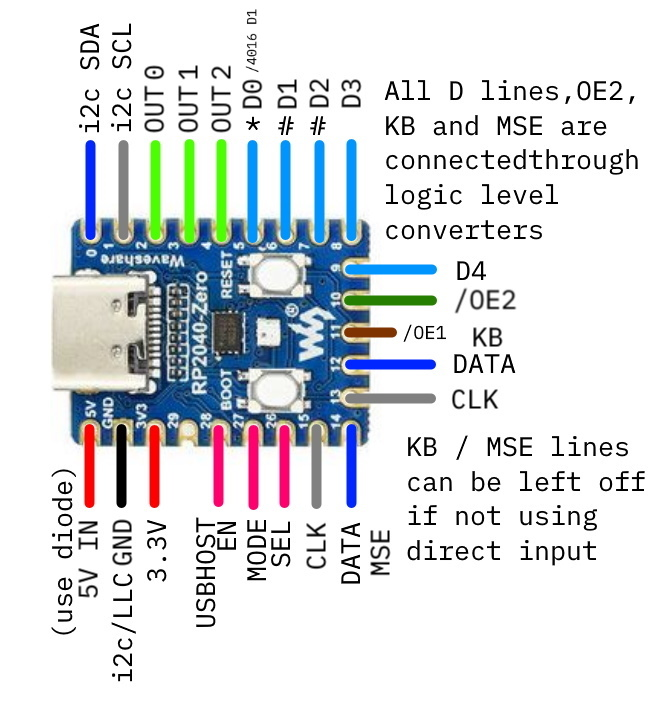
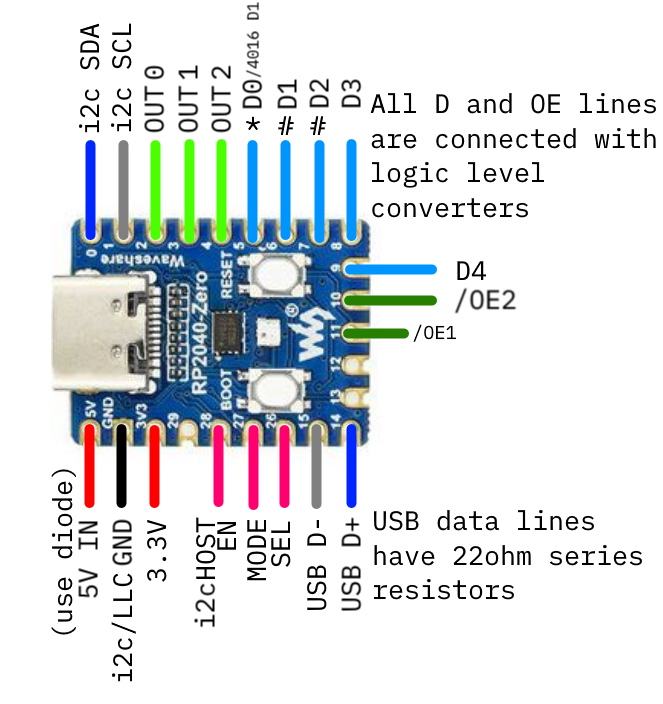
update readme and guides

diff --git a/README.md b/README.md
@@ -1,8 +1,14 @@
-# pico-ps2famikb
-Raspberry Pi Pico driven Family Basic Keyboard emulator for PS/2 capable devices and USB through a host
+# pico-usb2famikb
+Raspberry Pi Pico driven multi device emulator and Keyboard and Mouse Host for Famicom/NES by direct USB input or with an i2c host device
+
+Emulates
+* Family Basic Keyboard
+* Subor Keyboard and Mouse
+* Hori Track
+And supports Keyboard and Mouse Host mode, a community developed serialized keyboard and mouse interface.
 
 ![](pico-wiring-guide.jpg)
 - \* D0 is only needed for subor mouse support. Connecting it will conflict with controller 2, it can be left disconnected. 4016 D1 shares this pin, it is only needed for Hori Track support on Famicom.
 - \# D1 and D2 are only needed for Family Basic Keyboard mode, these can be left disconnected (esp. if making for NES player 2 controller port)
-- \? KB and MSE lines are only needed for direct input. These can be left disconnected if only the USB Host will be used (USB Host EN can then be tied to 3.3V to permanently enable it)
+- \? USB D+ and D- lines are only needed for direct input. These can be left disconnected if only the i2c Host will be used (i2c Host EN can then be tied to 3.3V to permanently enable it)
 ![](pico-zero-wiring-guide.jpg)
